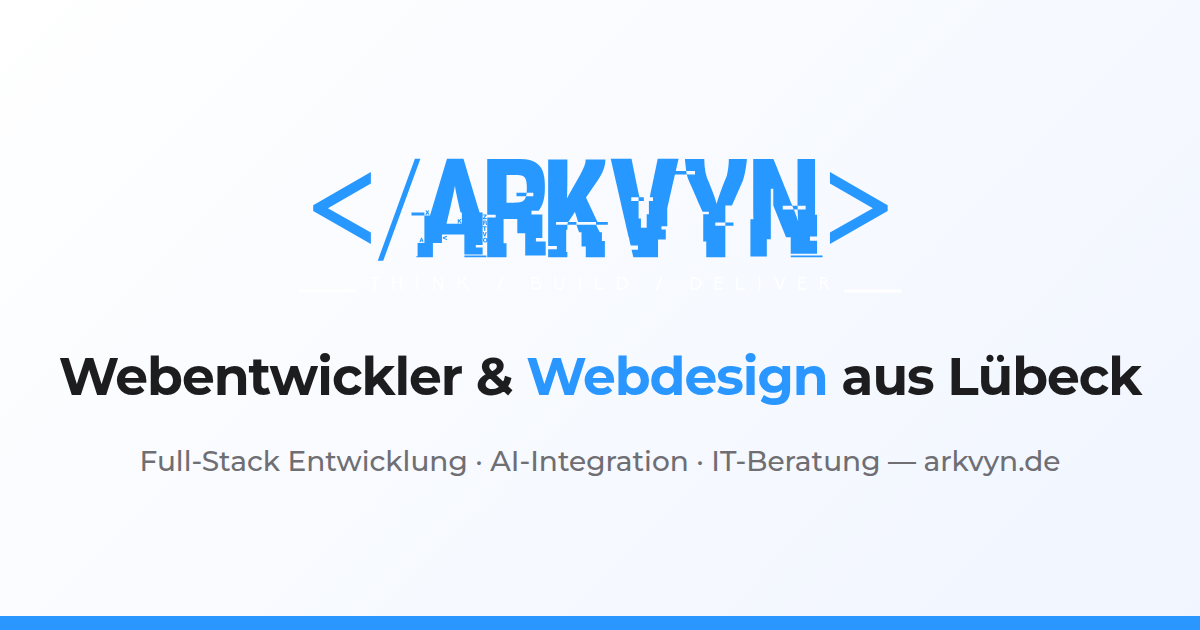
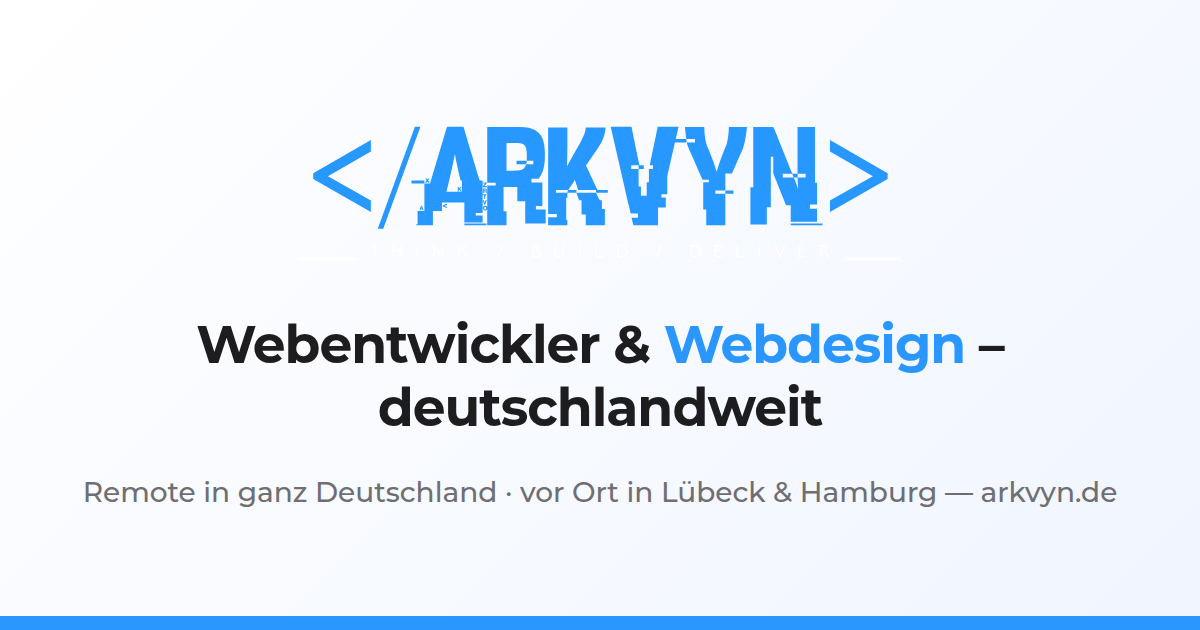
SEO/Copy: Position offering as Germany-wide, keep Lübeck as local anchor
- Title, meta description, keywords and OG/Twitter tags now target
  Germany-wide remote work in addition to the Lübeck/Hamburg region
- areaServed in LocalBusiness schema now includes Country Deutschland
- FAQ (JSON-LD and visible section, kept in sync) rephrased: pricing,
  services and apps answers now Germany-wide, new question about
  remote/nationwide work; one Lübeck question kept as local anchor
- Hero, Angebot, Über mich and footer copy mention remote work across
  Germany with on-site availability in Lübeck & Hamburg
- Regenerated og-image.png with the new positioning

Claude-Session: https://claude.ai/code/session_019D19qypqrb72rC1eKatEZK

Changed region(s): [[0.0308, 0.5127, 0.9558, 0.8143], [0.2467, 0.181, 0.74, 0.4222]]

diff --git a/index.html b/index.html
@@ -8,9 +8,9 @@
     <meta name="theme-color" content="#f5f5f7" />
 
     <!-- Primary SEO -->
-    <title>Webentwickler Lübeck &amp; Hamburg | Webdesign Lübeck | Softwareentwickler Schleswig-Holstein | Arkvyn</title>
-    <meta name="description" content="Webentwickler &amp; Webdesigner aus Lübeck – Tim Tolk (Arkvyn). Homepage erstellen lassen, professionelles Webdesign &amp; Full-Stack Entwicklung für Unternehmen in Lübeck, Hamburg &amp; Schleswig-Holstein. IT Freelancer mit 5+ Jahren Erfahrung. Jetzt kostenloses Erstgespräch." />
-    <meta name="keywords" content="Webentwickler Lübeck, Webdesigner Lübeck, Webdesign Lübeck, Entwickler Lübeck, Softwareentwickler Lübeck, Programmierer Lübeck, Frontend Entwickler Lübeck, Backend Entwickler Lübeck, Full-Stack Entwickler Lübeck, App Entwickler Lübeck, IT Freelancer Lübeck, Freelancer Lübeck, Software Freelancer Lübeck, Freelance Entwickler Lübeck, Homepage erstellen lassen Lübeck, Webseite erstellen lassen Lübeck, Website erstellen Lübeck, Webprogrammierung Lübeck, Webagentur Lübeck, Digitalagentur Lübeck, IT-Dienstleistungen Lübeck, IT-Beratung Lübeck, Digitalisierung Lübeck, App entwickeln lassen Lübeck, React Entwickler Lübeck, TypeScript Entwickler Lübeck, Node.js Entwickler Lübeck, Webentwickler Hamburg, Webdesign Hamburg, Softwareentwicklung Hamburg, Webentwickler Schleswig-Holstein, Webdesign Schleswig-Holstein, Softwareentwicklung Schleswig-Holstein, Entwickler Kiel, Entwickler Flensburg, Entwickler Lüneburg, KI-Integration, AI Entwickler, Tim Tolk, Arkvyn" />
+    <title>Webentwickler &amp; Webdesign deutschlandweit | Arkvyn – Tim Tolk, Lübeck</title>
+    <meta name="description" content="Webentwickler &amp; Webdesigner Tim Tolk (Arkvyn) – Homepage erstellen lassen, professionelles Webdesign &amp; Full-Stack Entwicklung für Unternehmen in ganz Deutschland. Remote deutschlandweit, vor Ort in Lübeck &amp; Hamburg. IT Freelancer mit 5+ Jahren Erfahrung. Jetzt kostenloses Erstgespräch." />
+    <meta name="keywords" content="Webentwickler Lübeck, Webdesigner Lübeck, Webdesign Lübeck, Entwickler Lübeck, Softwareentwickler Lübeck, Programmierer Lübeck, Frontend Entwickler Lübeck, Backend Entwickler Lübeck, Full-Stack Entwickler Lübeck, App Entwickler Lübeck, IT Freelancer Lübeck, Freelancer Lübeck, Software Freelancer Lübeck, Freelance Entwickler Lübeck, Homepage erstellen lassen Lübeck, Webseite erstellen lassen Lübeck, Website erstellen Lübeck, Webprogrammierung Lübeck, Webagentur Lübeck, Digitalagentur Lübeck, IT-Dienstleistungen Lübeck, IT-Beratung Lübeck, Digitalisierung Lübeck, App entwickeln lassen Lübeck, React Entwickler Lübeck, TypeScript Entwickler Lübeck, Node.js Entwickler Lübeck, Webentwickler Hamburg, Webdesign Hamburg, Softwareentwicklung Hamburg, Webentwickler Schleswig-Holstein, Webdesign Schleswig-Holstein, Softwareentwicklung Schleswig-Holstein, Entwickler Kiel, Entwickler Flensburg, Entwickler Lüneburg, Webentwickler Deutschland, Webdesign Deutschland, Softwareentwickler Deutschland, IT Freelancer Deutschland, Webentwickler remote, Freelance Entwickler remote, Homepage erstellen lassen, Website erstellen lassen, Webentwicklung deutschlandweit, KI-Integration, AI Entwickler, Tim Tolk, Arkvyn" />
     <meta name="author" content="Tim Tolk – Arkvyn" />
     <meta name="robots" content="index, follow" />
     <meta name="google-site-verification" content="Lrr2NNOZ2DnnSa1IHJCfkGnWteeLrv0PMSO7i1oLYzM" />
@@ -25,20 +25,20 @@
     <!-- Open Graph / Facebook -->
     <meta property="og:type" content="website" />
     <meta property="og:url" content="https://arkvyn.de/" />
-    <meta property="og:title" content="Arkvyn – Webentwickler &amp; Webdesign Lübeck | Tim Tolk" />
-    <meta property="og:description" content="Homepage erstellen lassen in Lübeck &amp; Hamburg – Tim Tolk (Arkvyn). Professionelles Webdesign, React, TypeScript, Node.js, AI-Integration. IT Freelancer mit 5+ Jahren Erfahrung." />
+    <meta property="og:title" content="Arkvyn – Webentwickler &amp; Webdesign deutschlandweit | Tim Tolk" />
+    <meta property="og:description" content="Homepage erstellen lassen – deutschlandweit remote, vor Ort in Lübeck &amp; Hamburg. Tim Tolk (Arkvyn): professionelles Webdesign, React, TypeScript, Node.js, AI-Integration. IT Freelancer mit 5+ Jahren Erfahrung." />
     <meta property="og:image" content="https://arkvyn.de/og-image.png" />
     <meta property="og:image:width" content="1200" />
     <meta property="og:image:height" content="630" />
-    <meta property="og:image:alt" content="Arkvyn – Webentwickler & Webdesign aus Lübeck" />
+    <meta property="og:image:alt" content="Arkvyn – Webentwickler & Webdesign, deutschlandweit" />
     <meta property="og:locale" content="de_DE" />
     <meta property="og:site_name" content="Arkvyn" />
 
     <!-- Twitter Card -->
     <meta name="twitter:card" content="summary_large_image" />
     <meta name="twitter:url" content="https://arkvyn.de/" />
-    <meta name="twitter:title" content="Arkvyn – Full-Stack Softwareentwicklung aus Lübeck" />
-    <meta name="twitter:description" content="Maßgeschneiderte Softwarelösungen von Tim Tolk – React, TypeScript, Node.js, AI-Integration & DevOps." />
+    <meta name="twitter:title" content="Arkvyn – Full-Stack Softwareentwicklung, deutschlandweit" />
+    <meta name="twitter:description" content="Maßgeschneiderte Softwarelösungen von Tim Tolk – React, TypeScript, Node.js, AI-Integration & DevOps. Remote in ganz Deutschland." />
     <meta name="twitter:image" content="https://arkvyn.de/og-image.png" />
 
     <!-- Structured Data: ProfessionalService / LocalBusiness -->
@@ -47,7 +47,7 @@
       "@context": "https://schema.org",
       "@type": ["ProfessionalService", "LocalBusiness"],
       "name": "Arkvyn",
-      "description": "Maßgeschneiderte Softwarelösungen – Full-Stack Entwicklung, AI-Integration, DevOps und IT-Beratung aus Lübeck.",
+      "description": "Maßgeschneiderte Softwarelösungen – Full-Stack Entwicklung, AI-Integration, DevOps und IT-Beratung. Deutschlandweit remote, ansässig in Lübeck.",
       "url": "https://arkvyn.de",
       "logo": "https://arkvyn.de/logo.png",
       "image": "https://arkvyn.de/og-image.png",
@@ -71,7 +71,10 @@
         "addressRegion": "Schleswig-Holstein",
         "addressCountry": "DE"
       },
-      "areaServed": ["Lübeck", "Hamburg", "Schleswig-Holstein", "Kiel", "Flensburg", "Lüneburg", "Deutschland"],
+      "areaServed": [
+        { "@type": "Country", "name": "Deutschland" },
+        "Lübeck", "Hamburg", "Schleswig-Holstein", "Kiel", "Flensburg", "Lüneburg"
+      ],
       "hasOfferCatalog": {
         "@type": "OfferCatalog",
         "name": "Softwareentwicklung & IT-Dienstleistungen",
@@ -92,9 +95,9 @@
     {
       "@context": "https://schema.org",
       "@type": "WebSite",
-      "name": "Arkvyn – Webentwickler & Softwareentwicklung Lübeck",
+      "name": "Arkvyn – Webentwickler & Softwareentwicklung deutschlandweit",
       "url": "https://arkvyn.de",
-      "description": "Tim Tolk – Freelance Webentwickler, Webdesigner und Softwareentwickler aus Lübeck. Full-Stack Entwicklung, App-Entwicklung, AI-Integration und IT-Beratung für Unternehmen in Lübeck, Hamburg und Schleswig-Holstein.",
+      "description": "Tim Tolk – Freelance Webentwickler, Webdesigner und Softwareentwickler aus Lübeck. Full-Stack Entwicklung, App-Entwicklung, AI-Integration und IT-Beratung für Unternehmen in ganz Deutschland – remote sowie vor Ort in Lübeck und Hamburg.",
       "inLanguage": "de-DE",
       "author": {
         "@type": "Person",
@@ -111,34 +114,34 @@
       "mainEntity": [
         {
           "@type": "Question",
-          "name": "Was kostet eine professionelle Website in Lübeck?",
+          "name": "Was kostet eine professionelle Website?",
           "acceptedAnswer": {
             "@type": "Answer",
-            "text": "Eine Landing Page beginnt bei 1.200 €, eine vollwertige Unternehmenswebsite ab 2.800 €. Kontaktieren Sie Arkvyn – Webentwickler aus Lübeck – für ein kostenloses Erstgespräch."
+            "text": "Eine Landing Page beginnt bei 1.200 €, eine vollwertige Unternehmenswebsite ab 2.800 €. Kontaktieren Sie Arkvyn für ein kostenloses Erstgespräch – deutschlandweit remote oder vor Ort in Lübeck und Hamburg."
           }
         },
         {
           "@type": "Question",
-          "name": "Welche Leistungen bietet ein Webentwickler in Lübeck?",
+          "name": "Welche Leistungen bietet Arkvyn?",
           "acceptedAnswer": {
             "@type": "Answer",
-            "text": "Tim Tolk (Arkvyn) bietet als Freelance Webentwickler und Softwareentwickler in Lübeck: Webdesign, Full-Stack Entwicklung, App-Entwicklung, AI-Integration, REST-APIs, DevOps und IT-Beratung für Kunden in Lübeck, Hamburg und Schleswig-Holstein."
+            "text": "Tim Tolk (Arkvyn) bietet als Freelance Webentwickler und Softwareentwickler: Webdesign, Full-Stack Entwicklung, App-Entwicklung, AI-Integration, REST-APIs, DevOps und IT-Beratung – für Kunden in ganz Deutschland, remote sowie vor Ort in Lübeck und Hamburg."
           }
         },
         {
           "@type": "Question",
-          "name": "Entwickelt Arkvyn auch Apps in Lübeck?",
+          "name": "Entwickelt Arkvyn auch Apps?",
           "acceptedAnswer": {
             "@type": "Answer",
-            "text": "Ja. Als App Entwickler aus Lübeck entwickelt Tim Tolk Web-Apps, Backend-Services und Plattformapplikationen mit React, TypeScript, Node.js, Go und Java – für Startups und Unternehmen in Lübeck und Norddeutschland."
+            "text": "Ja. Tim Tolk entwickelt Web-Apps, Backend-Services und Plattformapplikationen mit React, TypeScript, Node.js, Go und Java – für Startups und Unternehmen in ganz Deutschland."
           }
         },
         {
           "@type": "Question",
-          "name": "Ist Arkvyn ein IT Freelancer in Lübeck?",
+          "name": "Arbeitet Arkvyn auch remote und deutschlandweit?",
           "acceptedAnswer": {
             "@type": "Answer",
-            "text": "Ja. Tim Tolk arbeitet als selbstständiger IT Freelancer und Softwareentwickler (Programmierer) aus Lübeck. Er ist für Projekte in Lübeck, Hamburg, Kiel, Flensburg und remote in ganz Deutschland verfügbar."
+            "text": "Ja. Tim Tolk arbeitet als selbstständiger IT Freelancer und Softwareentwickler (Programmierer) aus Lübeck – remote für Projekte in ganz Deutschland und vor Ort in Lübeck, Hamburg und Schleswig-Holstein."
           }
         },
         {
@@ -146,7 +149,7 @@
           "name": "Wie finde ich einen guten Softwareentwickler in Lübeck?",
           "acceptedAnswer": {
             "@type": "Answer",
-            "text": "Arkvyn bietet maßgeschneiderte Softwareentwicklung in Lübeck an. Mit über 5 Jahren Erfahrung als Full-Stack Entwickler und Webdesigner unterstützt Tim Tolk Unternehmen bei Webprojekten, Digitalisierung und App-Entwicklung."
+            "text": "Arkvyn bietet maßgeschneiderte Softwareentwicklung aus Lübeck an. Mit über 5 Jahren Erfahrung als Full-Stack Entwickler und Webdesigner unterstützt Tim Tolk Unternehmen deutschlandweit bei Webprojekten, Digitalisierung und App-Entwicklung."
           }
         }
       ]

diff --git a/src/components/Faq.tsx b/src/components/Faq.tsx
@@ -11,24 +11,24 @@ import Divider from '@mui/material/Divider'
 // Google zeigt FAQ-Rich-Results nur für sichtbar vorhandene Inhalte.
 const faqs = [
   {
-    q: 'Was kostet eine professionelle Website in Lübeck?',
-    a: 'Eine Landing Page beginnt bei 1.200 €, eine vollwertige Unternehmenswebsite ab 2.800 €. Kontaktieren Sie Arkvyn – Webentwickler aus Lübeck – für ein kostenloses Erstgespräch.',
+    q: 'Was kostet eine professionelle Website?',
+    a: 'Eine Landing Page beginnt bei 1.200 €, eine vollwertige Unternehmenswebsite ab 2.800 €. Kontaktieren Sie Arkvyn für ein kostenloses Erstgespräch – deutschlandweit remote oder vor Ort in Lübeck und Hamburg.',
   },
   {
-    q: 'Welche Leistungen bietet ein Webentwickler in Lübeck?',
-    a: 'Tim Tolk (Arkvyn) bietet als Freelance Webentwickler und Softwareentwickler in Lübeck: Webdesign, Full-Stack Entwicklung, App-Entwicklung, AI-Integration, REST-APIs, DevOps und IT-Beratung für Kunden in Lübeck, Hamburg und Schleswig-Holstein.',
+    q: 'Welche Leistungen bietet Arkvyn?',
+    a: 'Tim Tolk (Arkvyn) bietet als Freelance Webentwickler und Softwareentwickler: Webdesign, Full-Stack Entwicklung, App-Entwicklung, AI-Integration, REST-APIs, DevOps und IT-Beratung – für Kunden in ganz Deutschland, remote sowie vor Ort in Lübeck und Hamburg.',
   },
   {
-    q: 'Entwickelt Arkvyn auch Apps in Lübeck?',
-    a: 'Ja. Als App Entwickler aus Lübeck entwickelt Tim Tolk Web-Apps, Backend-Services und Plattformapplikationen mit React, TypeScript, Node.js, Go und Java – für Startups und Unternehmen in Lübeck und Norddeutschland.',
+    q: 'Entwickelt Arkvyn auch Apps?',
+    a: 'Ja. Tim Tolk entwickelt Web-Apps, Backend-Services und Plattformapplikationen mit React, TypeScript, Node.js, Go und Java – für Startups und Unternehmen in ganz Deutschland.',
   },
   {
-    q: 'Ist Arkvyn ein IT Freelancer in Lübeck?',
-    a: 'Ja. Tim Tolk arbeitet als selbstständiger IT Freelancer und Softwareentwickler (Programmierer) aus Lübeck. Er ist für Projekte in Lübeck, Hamburg, Kiel, Flensburg und remote in ganz Deutschland verfügbar.',
+    q: 'Arbeitet Arkvyn auch remote und deutschlandweit?',
+    a: 'Ja. Tim Tolk arbeitet als selbstständiger IT Freelancer und Softwareentwickler (Programmierer) aus Lübeck – remote für Projekte in ganz Deutschland und vor Ort in Lübeck, Hamburg und Schleswig-Holstein.',
   },
   {
     q: 'Wie finde ich einen guten Softwareentwickler in Lübeck?',
-    a: 'Arkvyn bietet maßgeschneiderte Softwareentwicklung in Lübeck an. Mit über 5 Jahren Erfahrung als Full-Stack Entwickler und Webdesigner unterstützt Tim Tolk Unternehmen bei Webprojekten, Digitalisierung und App-Entwicklung.',
+    a: 'Arkvyn bietet maßgeschneiderte Softwareentwicklung aus Lübeck an. Mit über 5 Jahren Erfahrung als Full-Stack Entwickler und Webdesigner unterstützt Tim Tolk Unternehmen deutschlandweit bei Webprojekten, Digitalisierung und App-Entwicklung.',
   },
 ]
 

diff --git a/src/components/UeberMich.tsx b/src/components/UeberMich.tsx
@@ -12,7 +12,7 @@ const highlights = [
 ]
 
 const credentials = [
-  { label: 'Standort', value: 'Lübeck · tätig in Hamburg & SH' },
+  { label: 'Standort', value: 'Lübeck · remote deutschlandweit' },
   { label: 'Erfahrung', value: '5+ Jahre' },
   { label: 'Frontend', value: 'React · TypeScript' },
   { label: 'Backend', value: 'Node.js · Go · Java · Python' },
@@ -55,13 +55,13 @@ export default function UeberMich() {
               Mein Stack reicht von React & TypeScript im Frontend über Node.js,
               Java, Go und Python im Backend bis zu PostgreSQL, MongoDB und
               Cloud-Infrastruktur mit Docker & Hetzner. Als IT Freelancer aus Lübeck
-              arbeite ich für Kunden in Lübeck, Hamburg und ganz Schleswig-Holstein.
+              arbeite ich remote für Kunden in ganz Deutschland.
             </Typography>
             <Typography variant="body1" sx={{ color: 'text.secondary', mb: 4 }}>
               Als freiberuflicher Programmierer und Webdesigner aus Lübeck unterstütze
               ich Startups und Unternehmen bei der App-Entwicklung, Digitalisierung und
-              IT-Beratung – lokal in Lübeck, Kiel & Hamburg sowie remote in ganz
-              Norddeutschland.
+              IT-Beratung – vor Ort in Lübeck, Kiel & Hamburg sowie remote in ganz
+              Deutschland.
             </Typography>
 
             {/* Highlights list — elevated */}

diff --git a/src/App.tsx b/src/App.tsx
@@ -23,8 +23,8 @@ function MainPage() {
   return (
     <>
       <Helmet>
-        <title>Arkvyn – Full-Stack Softwareentwicklung aus Lübeck | Tim Tolk</title>
-        <meta name="description" content="Arkvyn – Maßgeschneiderte Softwarelösungen von Tim Tolk, Full-Stack Entwickler aus Lübeck. React, TypeScript, Node.js, AI-Integration, DevOps & IT-Beratung. Jetzt Erstgespräch vereinbaren." />
+        <title>Arkvyn – Webentwicklung &amp; Webdesign deutschlandweit | Tim Tolk, Lübeck</title>
+        <meta name="description" content="Arkvyn – Maßgeschneiderte Softwarelösungen von Tim Tolk, Full-Stack Entwickler aus Lübeck. Deutschlandweit remote: React, TypeScript, Node.js, AI-Integration, DevOps & IT-Beratung. Jetzt Erstgespräch vereinbaren." />
         <link rel="canonical" href="https://arkvyn.de/" />
       </Helmet>
       <main id="main" className="main-content">

diff --git a/src/components/Home.tsx b/src/components/Home.tsx
@@ -43,8 +43,9 @@ export default function Home() {
             variant="body1"
             sx={{ color: 'text.secondary', textAlign: 'center', maxWidth: 520, mb: 5, fontSize: '1.125rem' }}
           >
-            Maßgeschneiderte Softwarelösungen für Unternehmen in Lübeck,
-            Hamburg &amp; Schleswig-Holstein – von der Idee bis zur fertigen Anwendung.
+            Maßgeschneiderte Softwarelösungen für Unternehmen in ganz
+            Deutschland – remote oder vor Ort in Lübeck &amp; Hamburg,
+            von der Idee bis zur fertigen Anwendung.
           </Typography>
 
           <Stack direction={{ xs: 'column', sm: 'row' }} spacing={1.5} mb={8} sx={{ width: { xs: '100%', sm: 'auto' } }}>

diff --git a/src/components/Angebot.tsx b/src/components/Angebot.tsx
@@ -8,7 +8,7 @@ const services = [
   {
     num: '01',
     title: 'Webdesign & Webentwicklung',
-    desc: 'Professionelles Webdesign und Webentwicklung für Unternehmen in Lübeck und Schleswig-Holstein – von der modernen Landing Page bis zur komplexen Webanwendung.',
+    desc: 'Professionelles Webdesign und Webentwicklung für Unternehmen in ganz Deutschland – von der modernen Landing Page bis zur komplexen Webanwendung.',
   },
   {
     num: '02',

diff --git a/src/components/Footer.tsx b/src/components/Footer.tsx
@@ -61,7 +61,7 @@ export default function Footer({ scrollTo }: FooterProps) {
             </Typography>
             <Typography sx={{ fontSize: '0.8rem', color: 'text.disabled', mt: 1 }}>
               Webentwickler &amp; IT Freelancer aus Lübeck –<br />
-              tätig in Lübeck, Hamburg &amp; Schleswig-Holstein
+              remote in ganz Deutschland tätig
             </Typography>
           </Box>
 
